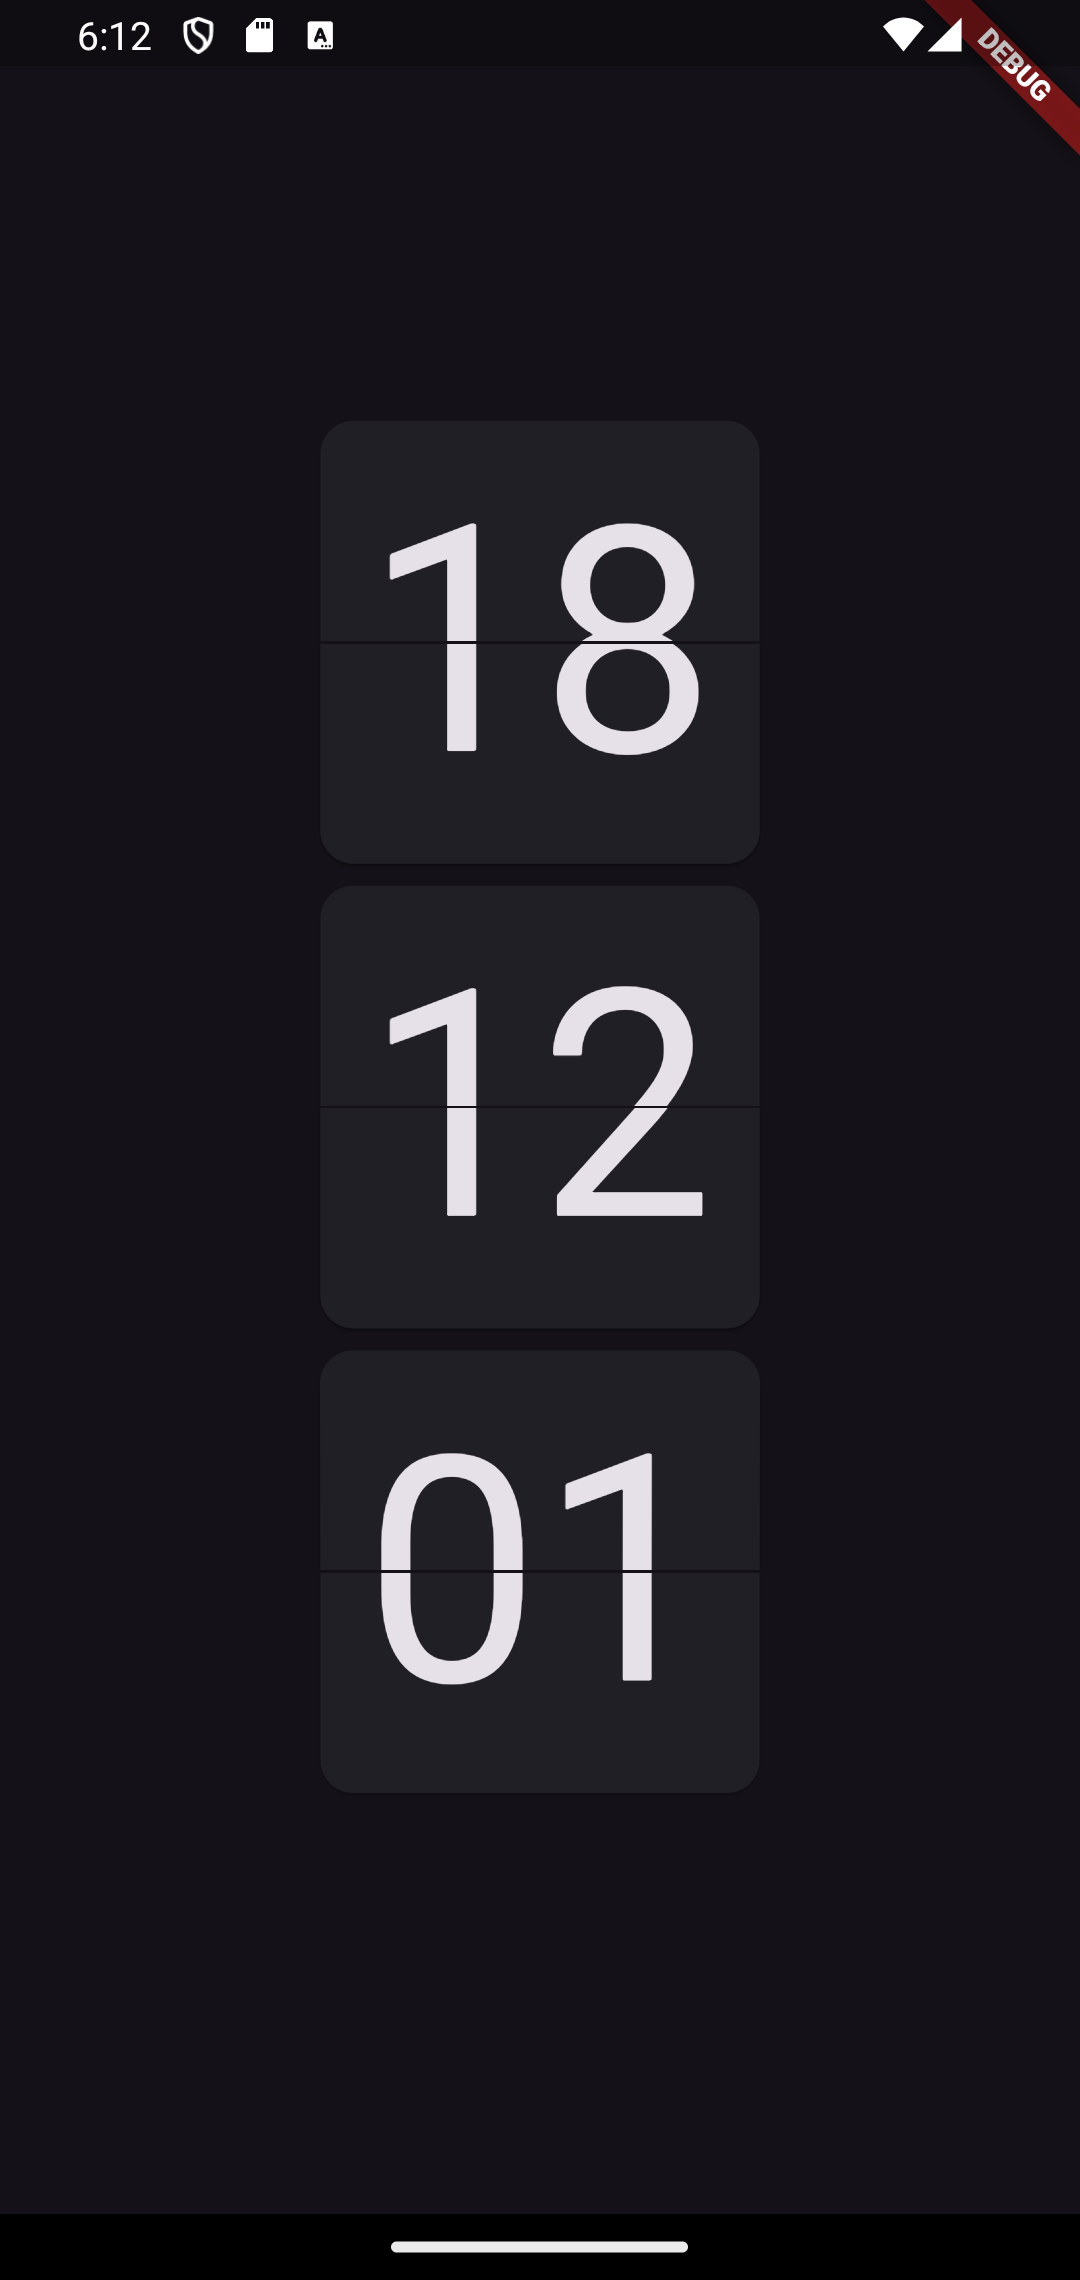
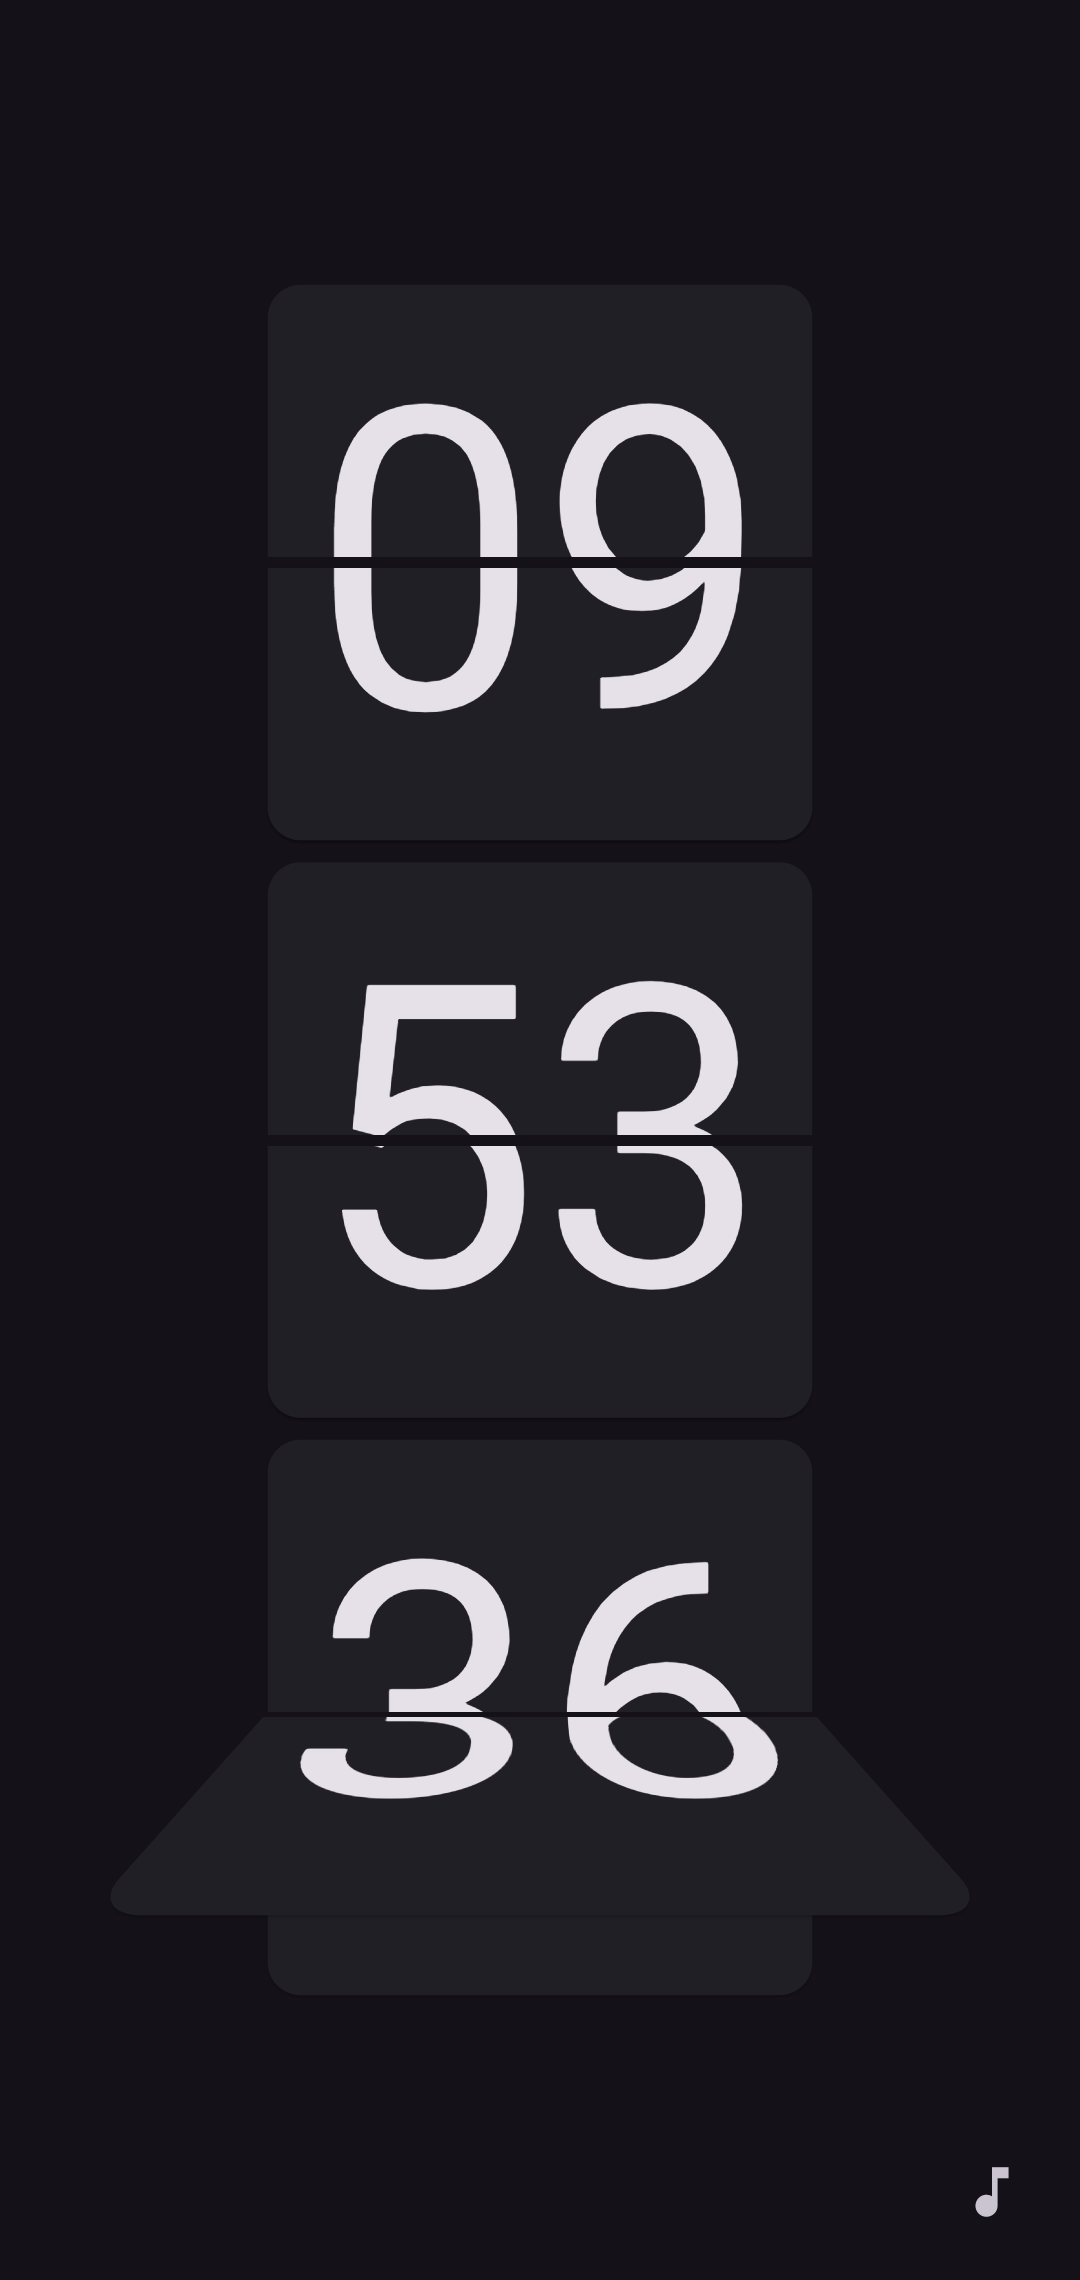
update screenshots

diff --git a/lib/widgets/simple_clock.dart b/lib/widgets/simple_clock.dart
@@ -36,7 +36,7 @@ class SimpleClock extends StatelessWidget {
                       style: Theme.of(context)
                           .textTheme
                           .displayLarge!
-                          .apply(fontSizeFactor: 2.8),
+                          .apply(fontSizeFactor: 2.6),
                     ),
                   ),
                 );
@@ -66,7 +66,7 @@ class SimpleClock extends StatelessWidget {
                       style: Theme.of(context)
                           .textTheme
                           .displayLarge!
-                          .apply(fontSizeFactor: 2.8),
+                          .apply(fontSizeFactor: 2.6),
                     ),
                   ),
                 );
@@ -96,7 +96,7 @@ class SimpleClock extends StatelessWidget {
                       style: Theme.of(context)
                           .textTheme
                           .displayLarge!
-                          .apply(fontSizeFactor: 2.8),
+                          .apply(fontSizeFactor: 2.6),
                     ),
                   ),
                 );
@@ -119,7 +119,7 @@ class SimpleClock extends StatelessWidget {
           style: Theme.of(context)
               .textTheme
               .displayLarge!
-              .apply(fontSizeFactor: 2.8),
+              .apply(fontSizeFactor: 2.6),
         ),
       ),
     );
